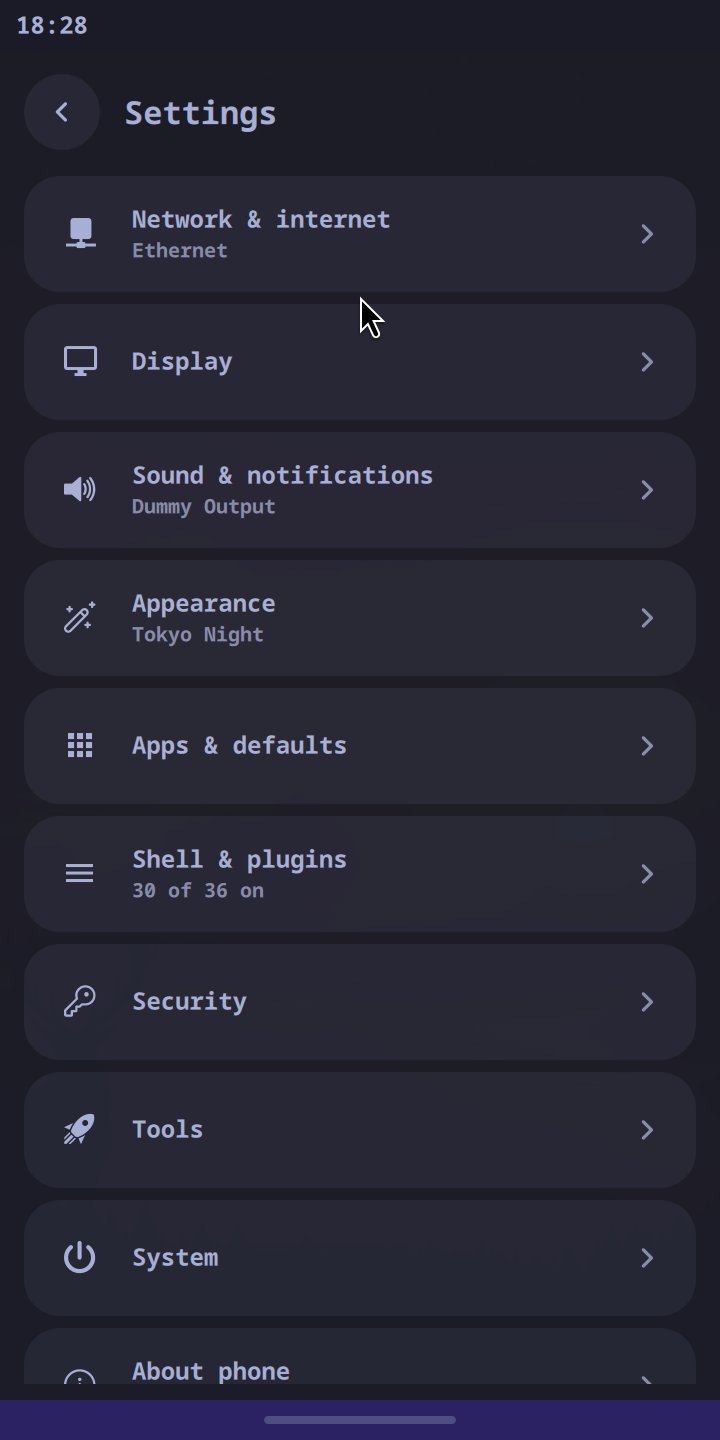
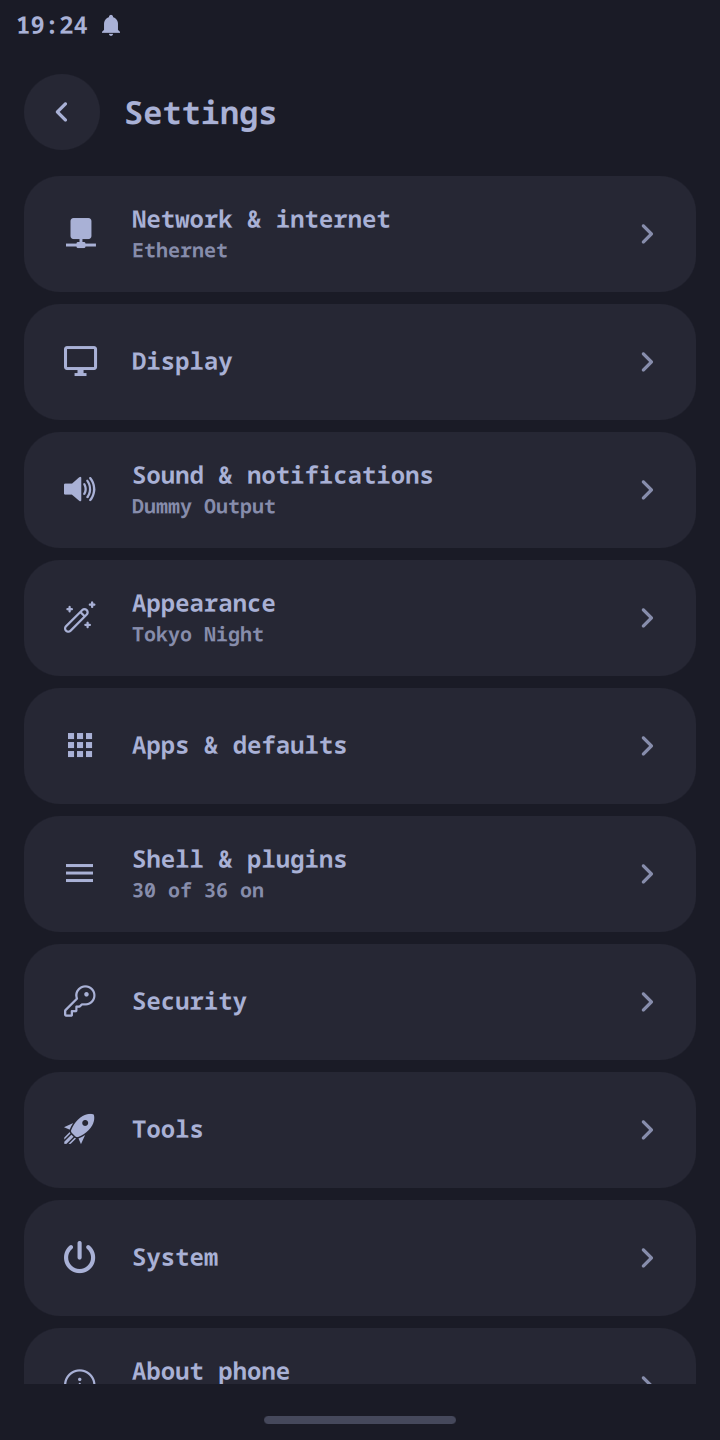
Fill the strip's band with the theme background behind a window
A window stops at the top of the strip, which reserves its band off every
window, so Settings, Wi-Fi and every app ended in a 20px stripe of
wallpaper with the pill drawn on it. gestures.md I1a asks for the theme's
background there instead, from the Bottom layer, and for the wallpaper to
stay on a home screen.

The home surface is already on Bottom. It now reaches one strip under the
band, the way the drawer does, and draws the band in Color.background
while any window is focused. Its zone stays zero, so no window moves, and
every sheet draws over it as before.

`gestures geometry` reports `band=` and `fill=`. The settings section holds
one device pixel of the last row against that fill behind Settings, and
against the wallpaper on an empty workspace. The pixel is read at the
output's own scale, because `grim -s 1` blends the edge row with what lies
beyond it. I1a's keyboard clause waits for an on-screen keyboard.

The three screenshots of windows are retaken.

diff --git a/default/etc/skel/.config/omarchy/plugins/mobile.shell/EdgeGestures.qml b/default/etc/skel/.config/omarchy/plugins/mobile.shell/EdgeGestures.qml
@@ -28,7 +28,9 @@
 //           Below every window: on an empty workspace it gets the touch, and on
 //           an occupied one the app is over it and it gets nothing. The layer
 //           answers "is this the home screen", and nothing here asks. It never
-//           has to grow -- it is already the size of the gesture.
+//           has to grow -- it is already the size of the gesture. It reaches
+//           under the strip too, and fills the band with the theme's
+//           background whenever a window is focused (I1a).
 //
 // ---------------------------------------------------------------------------
 // What the up-drag from the strip means
@@ -432,6 +434,10 @@ Item {
         + " input=" + (root.tracking ? "full" : "band")
         + " home=" + Math.round(home.width) + "x" + Math.round(home.height)
         + " travel=" + Math.round(root.pullTravel)
+        // I1a: whether the band is filled, and with what, so a check can hold
+        // one pixel of the screen against what this surface says it painted.
+        + " band=" + (root.bandFilled ? 1 : 0)
+        + " fill=" + Color.background
     }
   }
 
@@ -529,6 +535,22 @@ Item {
     }
   }
 
+  // I1a. Whether the strip's band is the theme's background rather than the
+  // wallpaper: whenever a window is focused. A window stops at the top of the
+  // strip -- the strip reserves the band off every window -- so without this
+  // Settings, Wi-Fi and every app end in a stripe of wallpaper with the pill
+  // drawn on it. An empty workspace keeps the wallpaper, because it is the
+  // home screen. Asked the way the carousel's activeToplevel() asks it.
+  //
+  // I1a's other clause, the wallpaper again while the on-screen keyboard is
+  // up, waits for a keyboard: this image has none (F3).
+  readonly property bool bandFilled: {
+    if (ToplevelManager.activeToplevel) return true
+    var list = ToplevelManager.toplevels ? ToplevelManager.toplevels.values : []
+    for (var i = 0; i < list.length; i++) if (list[i] && list[i].activated) return true
+    return false
+  }
+
   // ======================================================= the home screen
   PanelWindow {
     id: home
@@ -545,6 +567,21 @@ Item {
     // on empty space.
     exclusionMode: ExclusionMode.Normal
     exclusiveZone: 0
+
+    // I1a. One strip further down, under the strip's band, the way the drawer
+    // extends (I1). The zone stays zero, so no window moves: what grows is only
+    // where this surface can draw, and the edge surface above it still takes
+    // every press in the band.
+    margins.bottom: -root.stripHeight
+
+    // Bottom is below every window, so this shows only where no window is
+    // drawn -- the band -- and every sheet draws over it as before.
+    Rectangle {
+      anchors { left: parent.left; right: parent.right; bottom: parent.bottom }
+      height: root.stripHeight
+      visible: root.bandFilled
+      color: Color.background
+    }
 
     MouseArea {
       anchors.fill: parent

diff --git a/docs/spec/windows.md b/docs/spec/windows.md
@@ -20,7 +20,7 @@ before any of this applies, and they belong to [gestures.md](gestures.md).
 
 ---
 
-## W1–W5. The window area
+## W1–W6. The window area
 
 **W1** A single app on a workspace fills its workspace exactly. No wallpaper
 shows around it, on any edge.
@@ -76,6 +76,15 @@ columns that were never at stake — the bar anchors top, the keyboard anchors
 bottom, and neither costs a character of width. What it cost was the keyboard:
 Settings ▸ Install from the AUR, `passwd`, and every other bridged row that
 asks a question drew a prompt over a keyboard whose keys took no touches.
+
+**W6** *Added here, not moarchy's.* The shell's own screens — Settings, Wi-Fi,
+Bluetooth — draw opaque, so the theme background they paint is the colour the
+bar paints. They are windows and the bar is a layer surface, and upstream tags
+every window for 0.985 / 0.96 opacity (`default/hypr/windows.lua`): through
+that, the wallpaper tinted Settings `#1e1d27` under a `#1a1b26` bar on Tokyo
+Night.
+→ with Settings open, `hyprctl getprop` reports `opacity` and
+`opacity_inactive` of 1 for its window, which carries no `default-opacity` tag
 
 ---
 

diff --git a/docs/acceptance.md b/docs/acceptance.md
@@ -215,6 +215,7 @@ which is also what grants the shade its Do Not Disturb and media services.
 | W3 | partial | The lone window's border is gone (W1 proves it); the border coming back on a split workspace is not checked |
 | W4 | todo | Upstream's gaps toggle writes the same `hl.config` call, and `mobile.lua` loads after it, so the toggle is currently a no-op |
 | W5 | pass | |
+| W6 | pass | **Added here.** Settings' window is untagged and at opacity 1, and samples `#1a1b26` down its length, as the bar does |
 | L1–L9a | todo | The launch splash. Upstream's launch OSD still runs |
 
 ## [style.md](spec/style.md)
